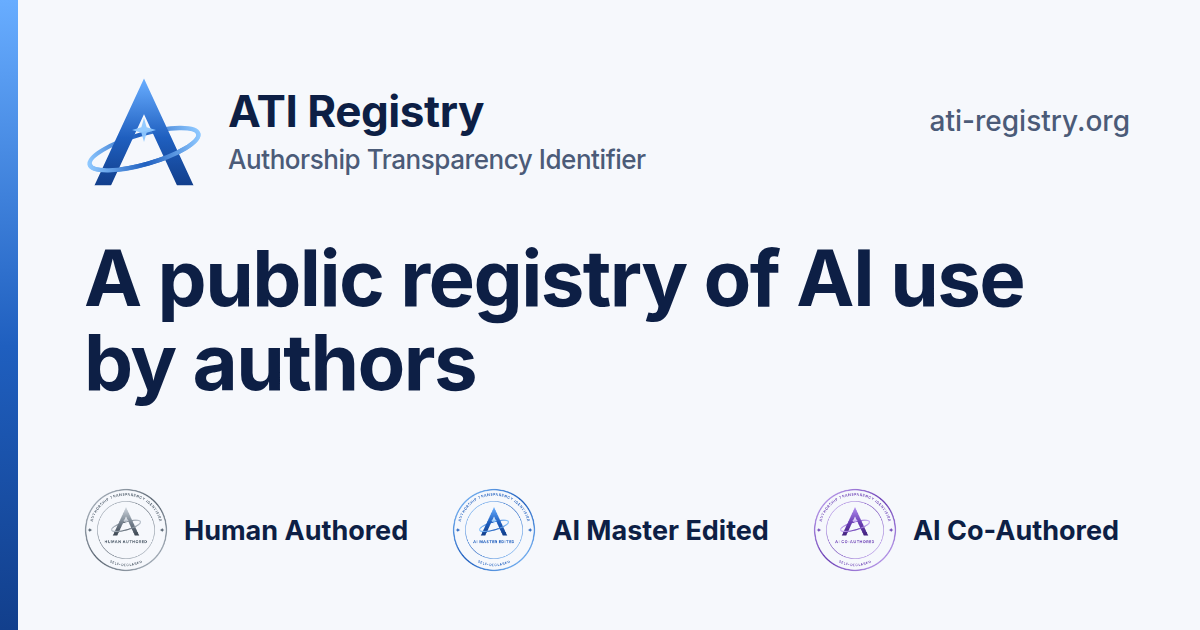
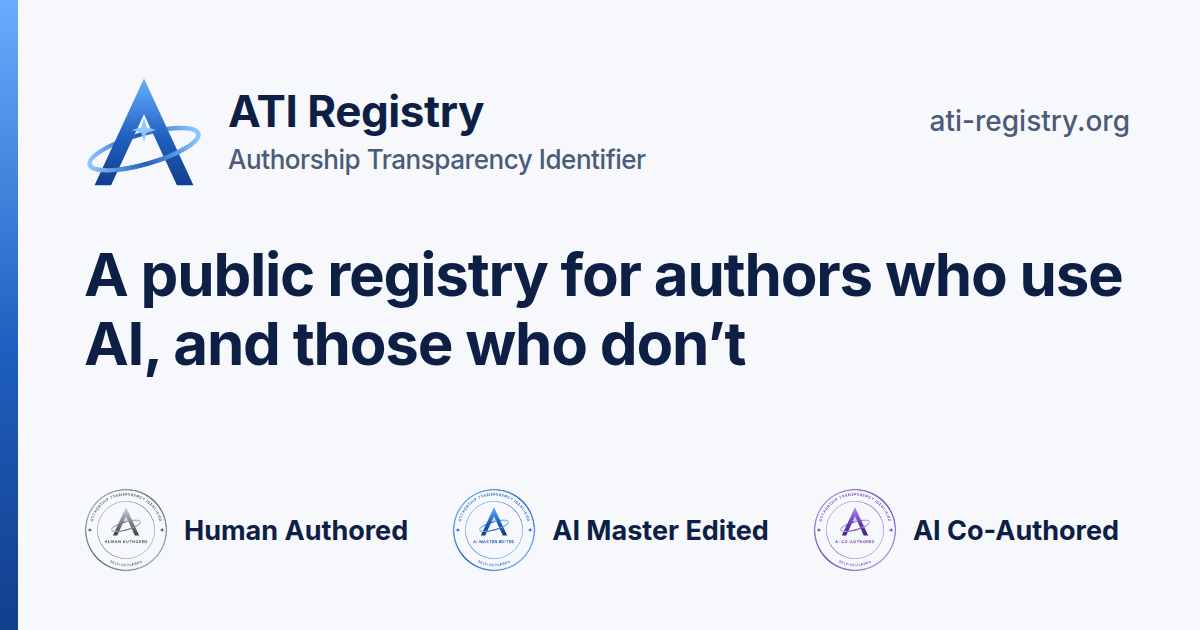
Homepage headline: say it is for authors who use AI and those who don't
Headline, preview image and image alt text updated; the description now says "Human Authored (no AI)". The title tag keeps "public registry of AI use by authors" for search.

Claude-Session: https://claude.ai/code/session_01HjzJMaiGtFwihd3ZGv79Zj

Changed region(s): [[0.0617, 0.3921, 0.9558, 0.6635]]

diff --git a/templates/base.html b/templates/base.html
@@ -18,7 +18,7 @@
 <meta property="og:image" content="{{ cfg.base_url }}/static/og-image.png">
 <meta property="og:image:width" content="1200">
 <meta property="og:image:height" content="630">
-<meta property="og:image:alt" content="ATI Registry: a public registry of AI use by authors, with the labels Human Authored, AI Master Edited and AI Co-Authored">
+<meta property="og:image:alt" content="ATI Registry: a public registry for authors who use AI, and those who don't, with the labels Human Authored, AI Master Edited and AI Co-Authored">
 <meta name="twitter:card" content="summary_large_image">
 {% if not shell %}<meta property="og:url" content="{{ cfg.base_url }}{{ path }}">
 {% endif %}

diff --git a/templates/home.html b/templates/home.html
@@ -5,7 +5,7 @@
 <section class="hero">
   <div>
     <p class="eyebrow">Free &middot; Public &middot; Self-declared</p>
-    <h1>A public registry of AI use by authors</h1>
+    <h1>A public registry for authors who use AI, and those who don&rsquo;t</h1>
     <p class="lead">The Authorship Transparency Identifier (ATI) is a free, open registry where authors and publishers publicly declare how AI was, or wasn&rsquo;t, used in a book.</p>
     <div class="actions">
       <a class="btn" href="/register/">Register a book</a>

diff --git a/ati/build.py b/ati/build.py
@@ -95,7 +95,7 @@ def build(out: Path, config_path: Path | None = None, quiet: bool = False) -> di
     def render(tpl: str, path: str, **ctx):
         return env.get_template(tpl).render(**{**base, "path": path, **ctx})
 
-    home_desc = ("A free public registry of AI use by authors. Authors and publishers declare whether a book is Human Authored, "
+    home_desc = ("A free public registry of AI use by authors. Authors and publishers declare whether a book is Human Authored (no AI), "
                  "AI Master Edited or AI Co-Authored.")
     site_ld = {"@context": "https://schema.org", "@graph": [
         {"@type": "WebSite", "@id": f"{cfg['base_url']}/#website", "url": f"{cfg['base_url']}/", "name": cfg["name"],

diff --git a/tests/test_build.py b/tests/test_build.py
@@ -105,7 +105,7 @@ class Build(unittest.TestCase):
     def test_search_and_sharing_metadata(self):
         h = self.read("index.html")
         self.assertIn("<title>ATI Registry: public registry of AI use by authors</title>", h)
-        self.assertIn("<h1>A public registry of AI use by authors</h1>", h)
+        self.assertIn("<h1>A public registry for authors who use AI, and those who don&rsquo;t</h1>", h)
         self.assertRegex(h, r'<meta name="description" content="[^"]*AI use by authors[^"]*">')
         for tag in ('property="og:image" content="https://ati-registry.org/static/og-image.png"', 'name="twitter:card" content="summary_large_image"',
                     'property="og:site_name"'):
